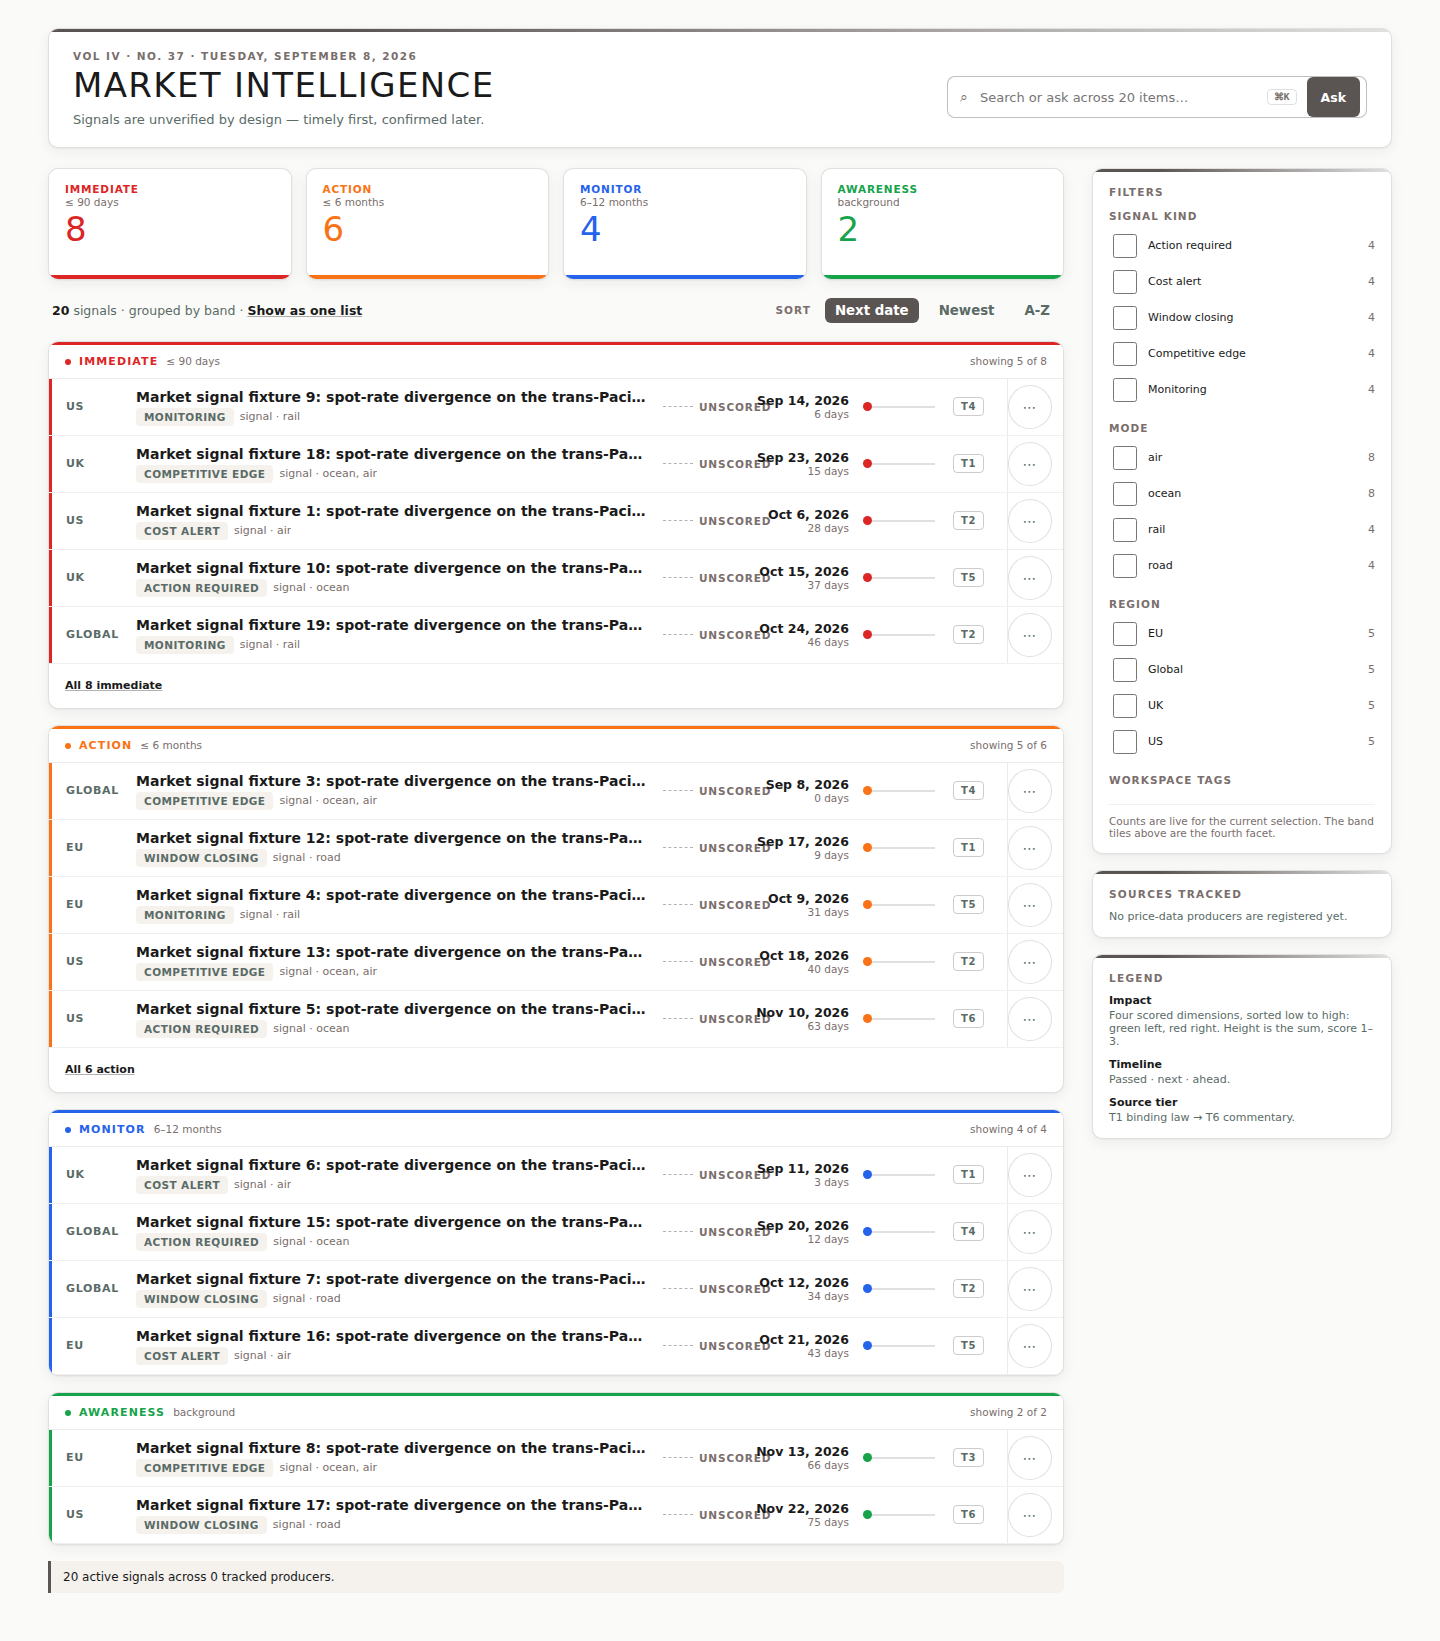
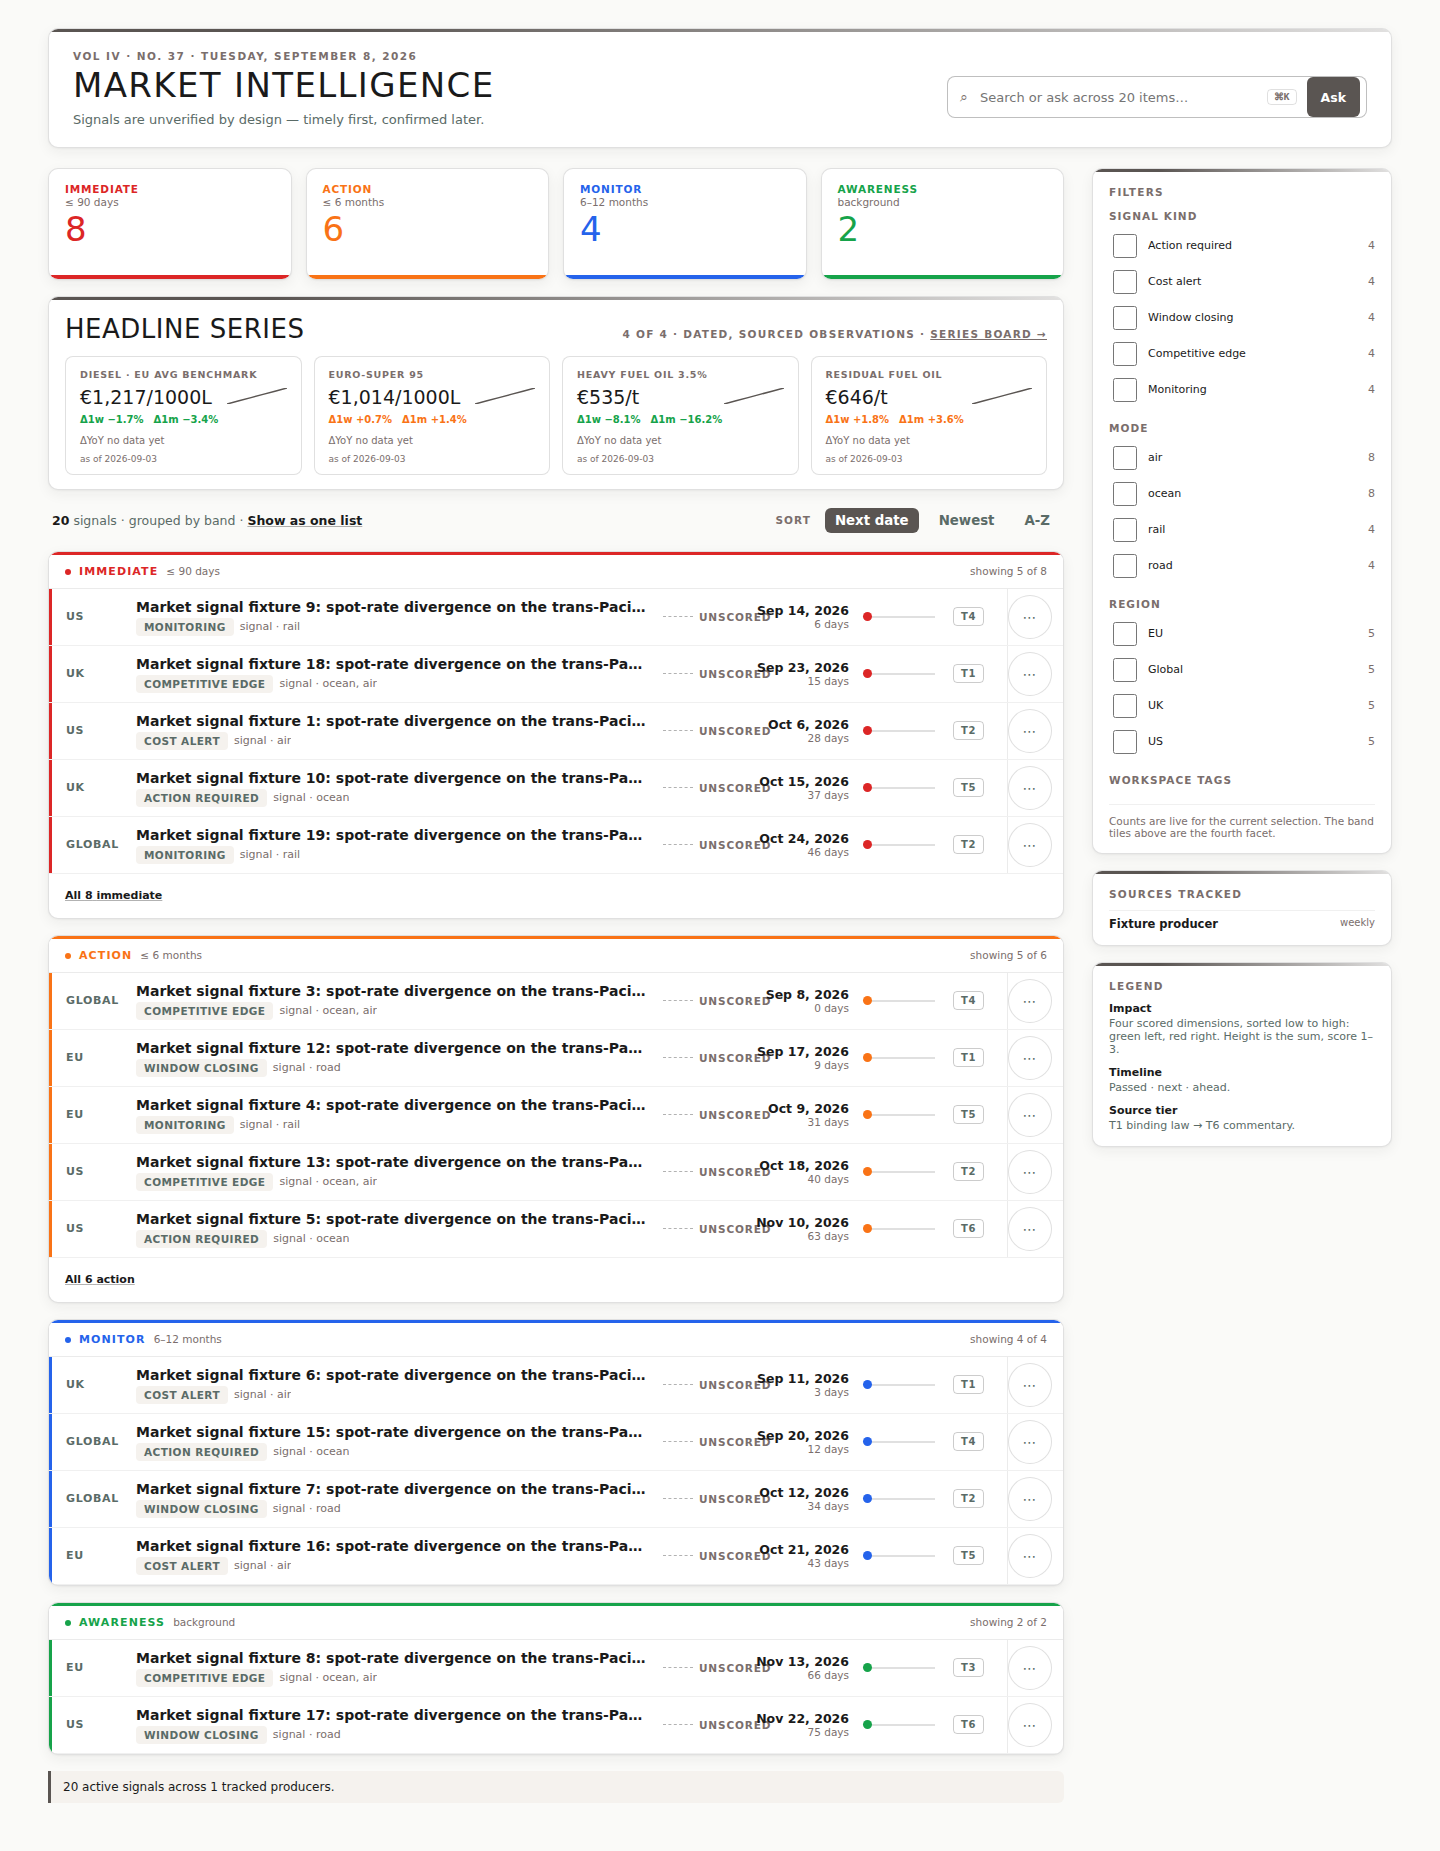
market: embed Headline Series card in ListSurfaceShell content column (artboard 04/p4)
MarketComparativeRibbon ("Headline series") was rendering as its own
full-bleed page section below the ledger — a prior lane's already-logged
deviation from artboard 04, which nests the card between the band tiles
and the sort row, inside the content column.

- Add `embedded` prop to MarketComparativeRibbon: card chrome (border/
  radius/shadow), a SectionRule above the title (ruling 5.1), and removes
  the borderBottom divider under the title that ruling 5.1/4.1 named as a
  defect. Title copy changed to "Headline series" to match the artboard
  exactly (file/component identity keeps its original name). Summary line
  now links to a real #market-series-board anchor instead of restating a
  bare count.
- MarketIntelLedger gains a `headlineSeries` slot wired to
  ListSurfaceShell's `aboveRows`.
- market/page.tsx passes the ribbon as `headlineSeries={... embedded}`
  instead of rendering it standalone, and anchors the series board
  section with id="market-series-board".
- New MarketComparativeRibbon.npmtest.mjs: source-text regression
  coverage for the embedded prop, the dropped divider, the title copy,
  and the page/ledger wiring (pattern per SectionRule.npmtest.mjs).
- Regenerated compose-04-market-list.png fixture screenshot with a
  populated market_series fixture (also fixed the fixture's own
  delta1w/delta1m shape — WindowDelta needs a numeric `value`, not just
  `pct`, for DeltaChip to render a real percentage instead of "no data
[…]

Changed region(s): [[0.0312, 0.0, 0.9688, 0.9945], [0.6562, 0.4351, 0.7188, 0.4662]]

diff --git a/fsi-app/src/components/market/MarketComparativeRibbon.tsx b/fsi-app/src/components/market/MarketComparativeRibbon.tsx
@@ -23,9 +23,19 @@
 import type { MarketSeriesBoardVM } from "@/lib/supabase-server";
 import { formatDelta } from "@/lib/contracts/envelope.mjs";
 import { MoreBelowDisclosure } from "@/components/shared/MoreBelowDisclosure";
+import { SectionRule } from "@/components/ui/SectionRule";
 
 interface MarketComparativeRibbonProps {
   board: MarketSeriesBoardVM;
+  /** True when mounted inside ListSurfaceShell's `aboveRows` slot (artboard 04/id="p4": the
+   *  "Headline series" card nests BETWEEN the band tiles and the sort row, inside the content
+   *  column, not as its own full-bleed page section) — lane compose-lists, 2026-09-08, relocating
+   *  the placement this file's own header comment (and DEVIATION-LOG.md) already logged as
+   *  deferred. Drops the standalone page-section's own maxWidth/margin/padding so the card fills
+   *  the content column instead. The card's own border/radius/shadow/section-rule chrome (ruling
+   *  5.1) is added by MarketIntelLedger where this mounts, not here, so a future non-embedded
+   *  caller is unaffected. */
+  embedded?: boolean;
 }
 
 const MAX_METRICS = 10;
@@ -54,7 +64,7 @@ interface RibbonRow {
   deltas: SeriesDeltas;
 }
 
-export function MarketComparativeRibbon({ board }: MarketComparativeRibbonProps) {
+export function MarketComparativeRibbon({ board, embedded = false }: MarketComparativeRibbonProps) {
   const rows: RibbonRow[] = [];
   for (const g of board.groups) {
     if (g.state !== "populated") continue;
@@ -74,20 +84,39 @@ export function MarketComparativeRibbon({ board }: MarketComparativeRibbonProps)
   const shown = rows.slice(0, MAX_METRICS);
   const hiddenCount = rows.length - shown.length;
 
+  const embeddedCardStyle = {
+    background: "var(--card)",
+    border: "1px solid var(--line-1)",
+    borderRadius: "var(--radius-card)",
+    boxShadow: "var(--shadow-card)",
+    overflow: "hidden",
+  };
+
   return (
-    <div style={{ maxWidth: 1180, margin: "0 auto", padding: "0 36px 28px" }}>
+    <div
+      style={
+        embedded ? embeddedCardStyle : { maxWidth: 1180, margin: "0 auto", padding: "0 36px 28px" }
+      }
+    >
+      {/* Ruling 5.1 (2026-09-07, CLOSED): the graduated rule sits ABOVE the title, full card
+          width, no radius, and there is NO divider below the title — a solid border-bottom under
+          "Comparative ribbon" was the exact defect 5.1 names. Section title itself: Anton
+          uppercase, no divider, no underline. */}
+      {embedded && <SectionRule />}
       <div
         style={{
           display: "flex",
           alignItems: "baseline",
           justifyContent: "space-between",
           gap: 16,
-          borderBottom: "2px solid var(--color-text-primary)",
-          padding: "0 0 8px",
+          padding: embedded ? "14px 16px 0" : "0 0 8px",
           margin: "0 0 12px",
           flexWrap: "wrap",
         }}
       >
+        {/* artboard 04/id="p4": "HEADLINE SERIES" — this card's own title, not "Comparative
+            ribbon" (this file's pre-existing name, kept as the component/file identity, not the
+            rendered copy). */}
         <h2
           style={{
             fontFamily: "var(--font-display)",
@@ -98,7 +127,7 @@ export function MarketComparativeRibbon({ board }: MarketComparativeRibbonProps)
             margin: 0,
           }}
         >
-          Comparative ribbon
+          Headline series
         </h2>
         <span
           style={{
@@ -109,7 +138,10 @@ export function MarketComparativeRibbon({ board }: MarketComparativeRibbonProps)
             color: "var(--color-text-muted)",
           }}
         >
-          {shown.length} of {rows.length} headline series
+          {shown.length} of {rows.length} · dated, sourced observations ·{" "}
+          <a href="#market-series-board" style={{ color: "inherit", textDecoration: "underline" }}>
+            Series board →
+          </a>
         </span>
       </div>
 
@@ -118,6 +150,7 @@ export function MarketComparativeRibbon({ board }: MarketComparativeRibbonProps)
           display: "grid",
           gridTemplateColumns: "repeat(auto-fit, minmax(220px, 1fr))",
           gap: 12,
+          padding: embedded ? "0 16px 14px" : undefined,
         }}
       >
         {shown.map((row) => (
@@ -131,6 +164,7 @@ export function MarketComparativeRibbon({ board }: MarketComparativeRibbonProps)
             display: "grid",
             gridTemplateColumns: "repeat(auto-fit, minmax(220px, 1fr))",
             gap: 12,
+            padding: embedded ? "0 16px 14px" : undefined,
           }}
         >
           {rows.slice(MAX_METRICS).map((row) => (

diff --git a/fsi-app/src/app/market/page.tsx b/fsi-app/src/app/market/page.tsx
@@ -162,13 +162,19 @@ export default async function Market() {
     <>
       {/* UILISTS lane (2026-09-06): MarketIntelLedger now renders its own Masthead (UI system
           handoff artboard 04) — the old hand-built <EditorialMasthead> + meta sub-line is gone. */}
-      {/* Comparative ribbon (spec 02 §6 item 1): the 15-second "has anything moved" read. The
-          artboard nests this ("Headline series") between the band tiles and the row list; kept as
-          its own section below the ledger instead — restructuring MarketComparativeRibbon's own
-          layout to nest inside ListSurfaceShell is out of this lane's budget, logged in
-          DEVIATION-LOG.md. Renders nothing when no series is populated yet, never an empty shell. */}
-      <MarketIntelLedger initialResources={marketIntel.resources.map(toLedgerRowPayload)} aggregates={aggregates} seriesBoard={seriesBoard} nowIso={renderNowIso()} />
-      <MarketComparativeRibbon board={seriesBoard} />
+      {/* Comparative ribbon (spec 02 §6 item 1): the 15-second "has anything moved" read. RELOCATED
+          (lane compose-lists, 2026-09-08, closing the deviation this comment used to log): now
+          passed to MarketIntelLedger's `aboveRows` slot, `embedded`, so it nests BETWEEN the band
+          tiles and the sort row, inside the content column — matching artboard 04/id="p4"'s own
+          "Headline series" card placement exactly, instead of its own full-bleed section below the
+          ledger. Renders nothing when no series is populated yet, never an empty shell. */}
+      <MarketIntelLedger
+        initialResources={marketIntel.resources.map(toLedgerRowPayload)}
+        aggregates={aggregates}
+        seriesBoard={seriesBoard}
+        nowIso={renderNowIso()}
+        headlineSeries={<MarketComparativeRibbon board={seriesBoard} embedded />}
+      />
       {/* Carbon cost per FEU overlay (spec 02 §6 item 3): built from a static emission-factor fixture +
           every live corridor entity (entity_scope's first real reader, lane SCOPE-READER 2026-09-06),
           never a fetch inside the component itself (CORR write set — the fetch lives in this page).
@@ -187,7 +193,10 @@ export default async function Market() {
       {/* PERF-10 (2026-09-04): watchMembership is null — no per-viewer batch read runs on this page at
           all (see this file's header); each row's WatchButton resolves its own watch state
           client-side instead of arriving pre-seeded. */}
-      <MarketSeriesBoard board={seriesBoard} watchMembership={null} nowIso={renderNowIso()} />
+      {/* id target for the embedded Headline series card's "Series board →" link above. */}
+      <div id="market-series-board">
+        <MarketSeriesBoard board={seriesBoard} watchMembership={null} nowIso={renderNowIso()} />
+      </div>
       <div style={{ maxWidth: 1180, margin: "0 auto", padding: "28px 36px 0" }}>
         <p
           style={{

diff --git a/fsi-app/src/components/market/MarketIntelLedger.tsx b/fsi-app/src/components/market/MarketIntelLedger.tsx
@@ -26,7 +26,7 @@
  * that page's own header (PERF-11).
  */
 
-import { useMemo, useState } from "react";
+import { useMemo, useState, type ReactNode } from "react";
 import type { Resource } from "@/types/resource";
 import type { WorkspaceAggregates } from "@/lib/data";
 import type { MarketSeriesBoardVM, MarketSeriesProducerGroup } from "@/lib/supabase-server";
@@ -110,9 +110,14 @@ export interface MarketIntelLedgerProps {
   initialResources: Resource[];
   aggregates: WorkspaceAggregates;
   seriesBoard?: MarketSeriesBoardVM;
+  /** artboard 04/id="p4": the "Headline series" card, nested between the band tiles and the sort
+   *  row. The page passes its own <MarketComparativeRibbon board={seriesBoard} embedded /> here
+   *  (both already read the SAME seriesBoard fetch) rather than this component importing and
+   *  mounting it directly — page.tsx owns the fetch, this component owns only the placement slot. */
+  headlineSeries?: ReactNode;
 }
 
-export function MarketIntelLedger({ initialResources, aggregates, seriesBoard, nowIso }: MarketIntelLedgerProps) {
+export function MarketIntelLedger({ initialResources, aggregates, seriesBoard, nowIso, headlineSeries }: MarketIntelLedgerProps) {
   const [filter, setFilter] = useState<RowFilterState>(EMPTY_FILTER_STATE);
   const [kindFilter, setKindFilter] = useState<string | null>(null);
   const [expanded, setExpanded] = useState<Set<UrgencyBandKey>>(new Set());
@@ -230,6 +235,7 @@ export function MarketIntelLedger({ initialResources, aggregates, seriesBoard, n
       onSelectBand={(key) => setFilter((f) => ({ ...f, band: f.band === key ? null : key }))}
       facetGroups={facetGroups}
       secondaryFacetGroups={workspaceTagFacetGroups}
+      aboveRows={headlineSeries}
       sortRow={
         <ListSurfaceSortRow
           countLabel={
